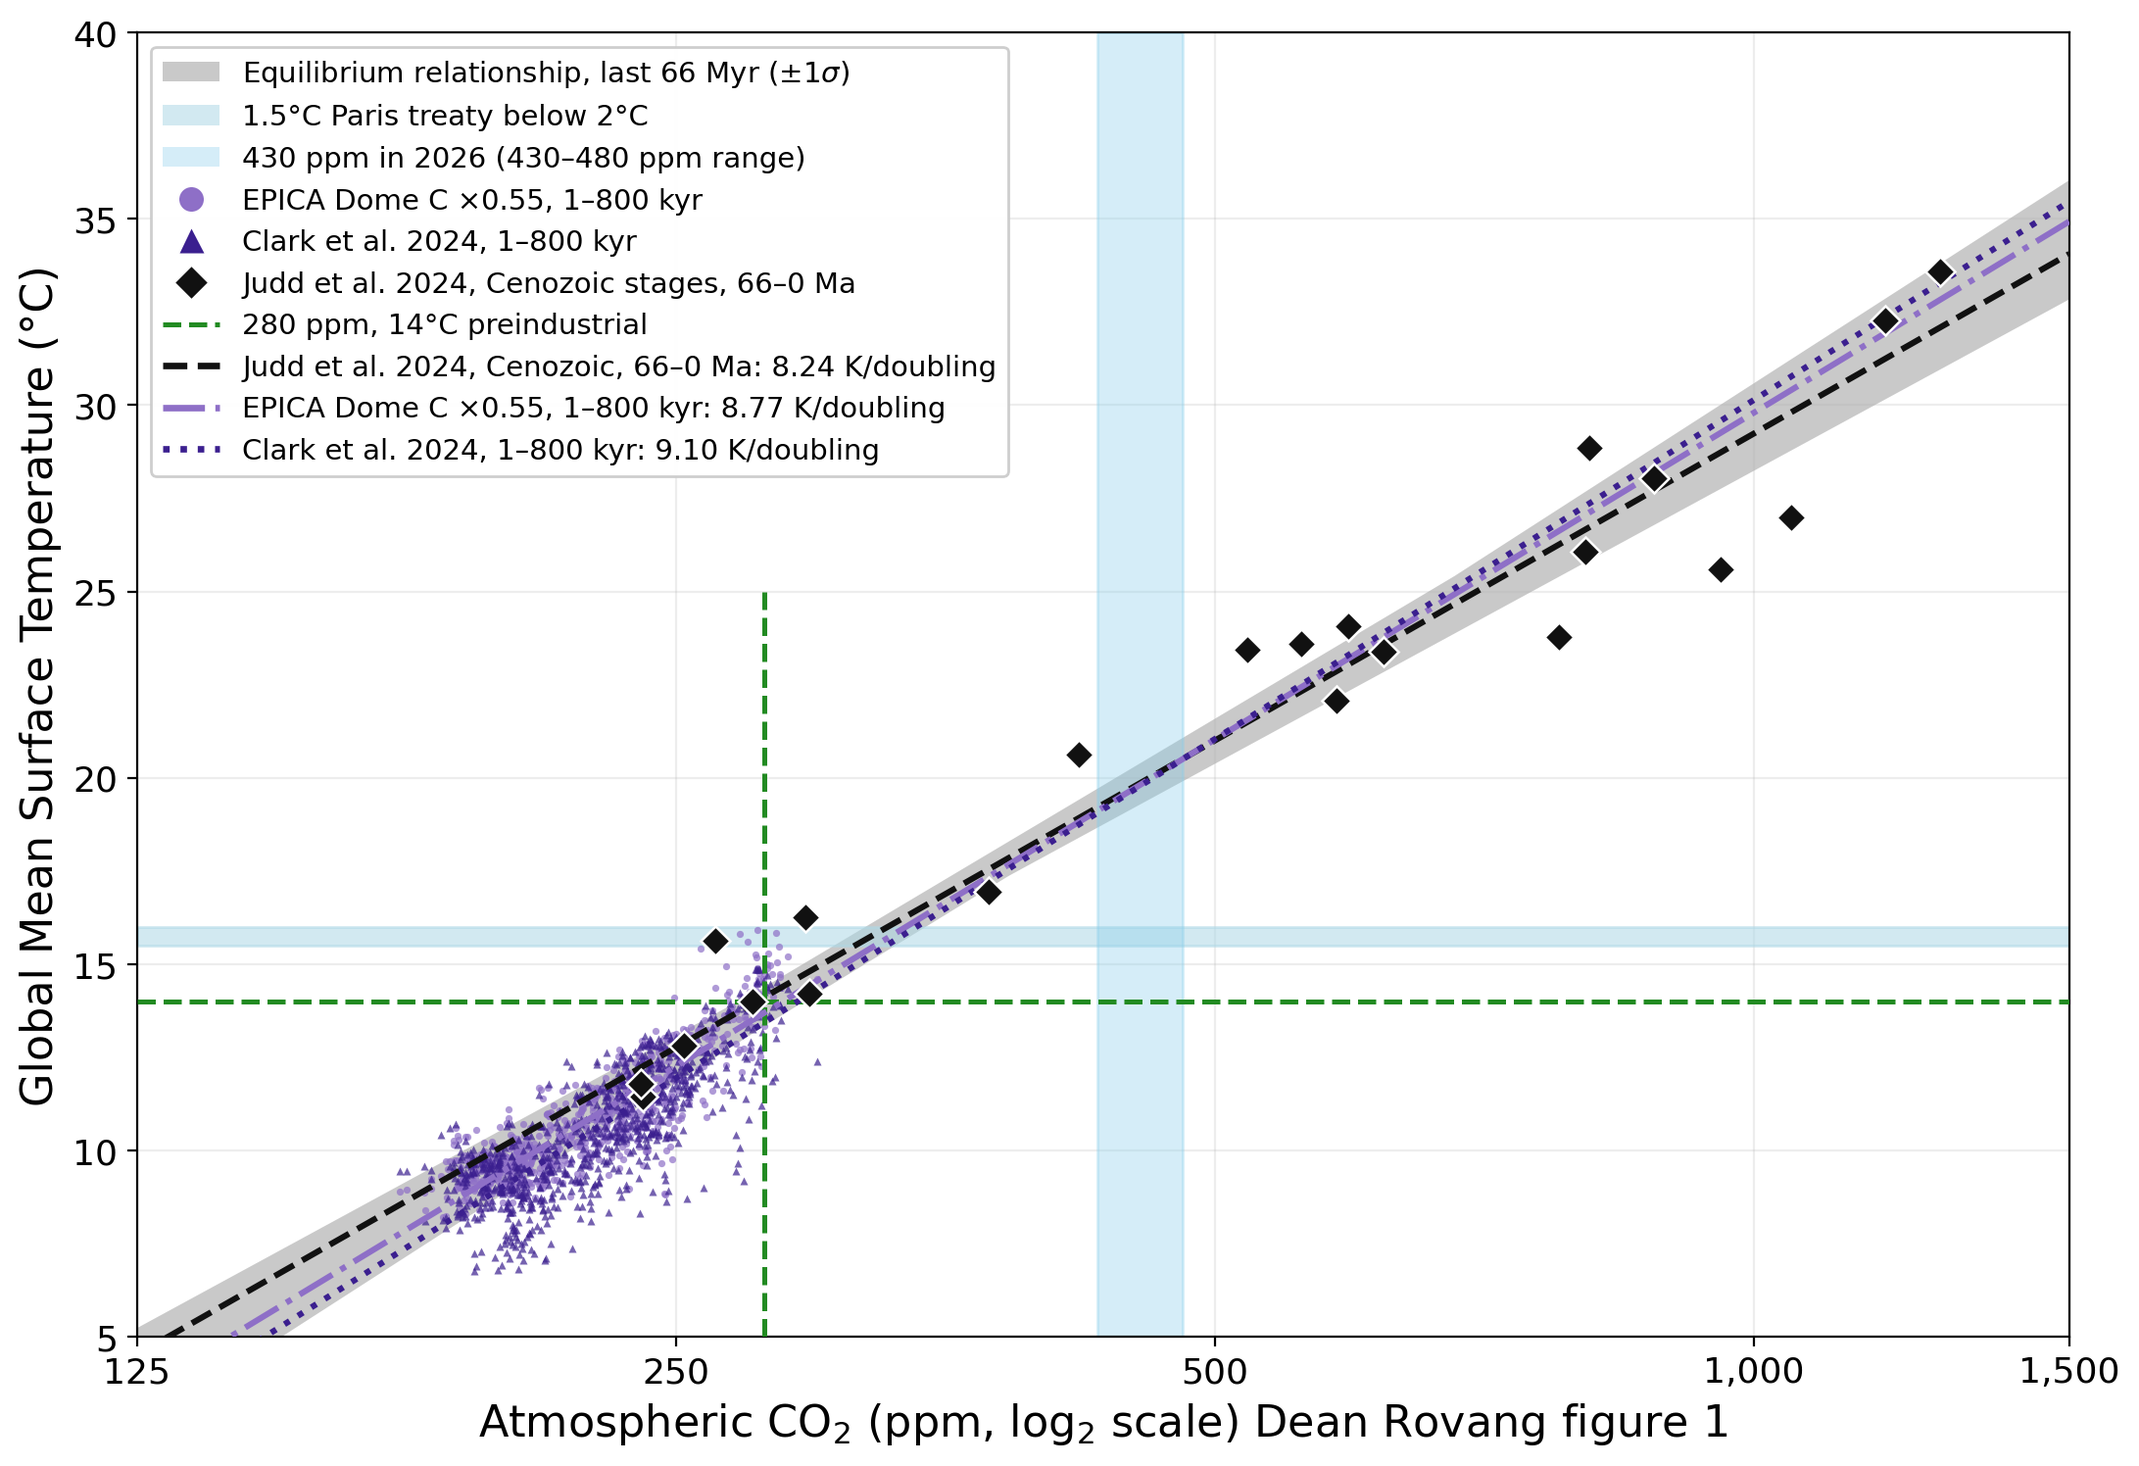
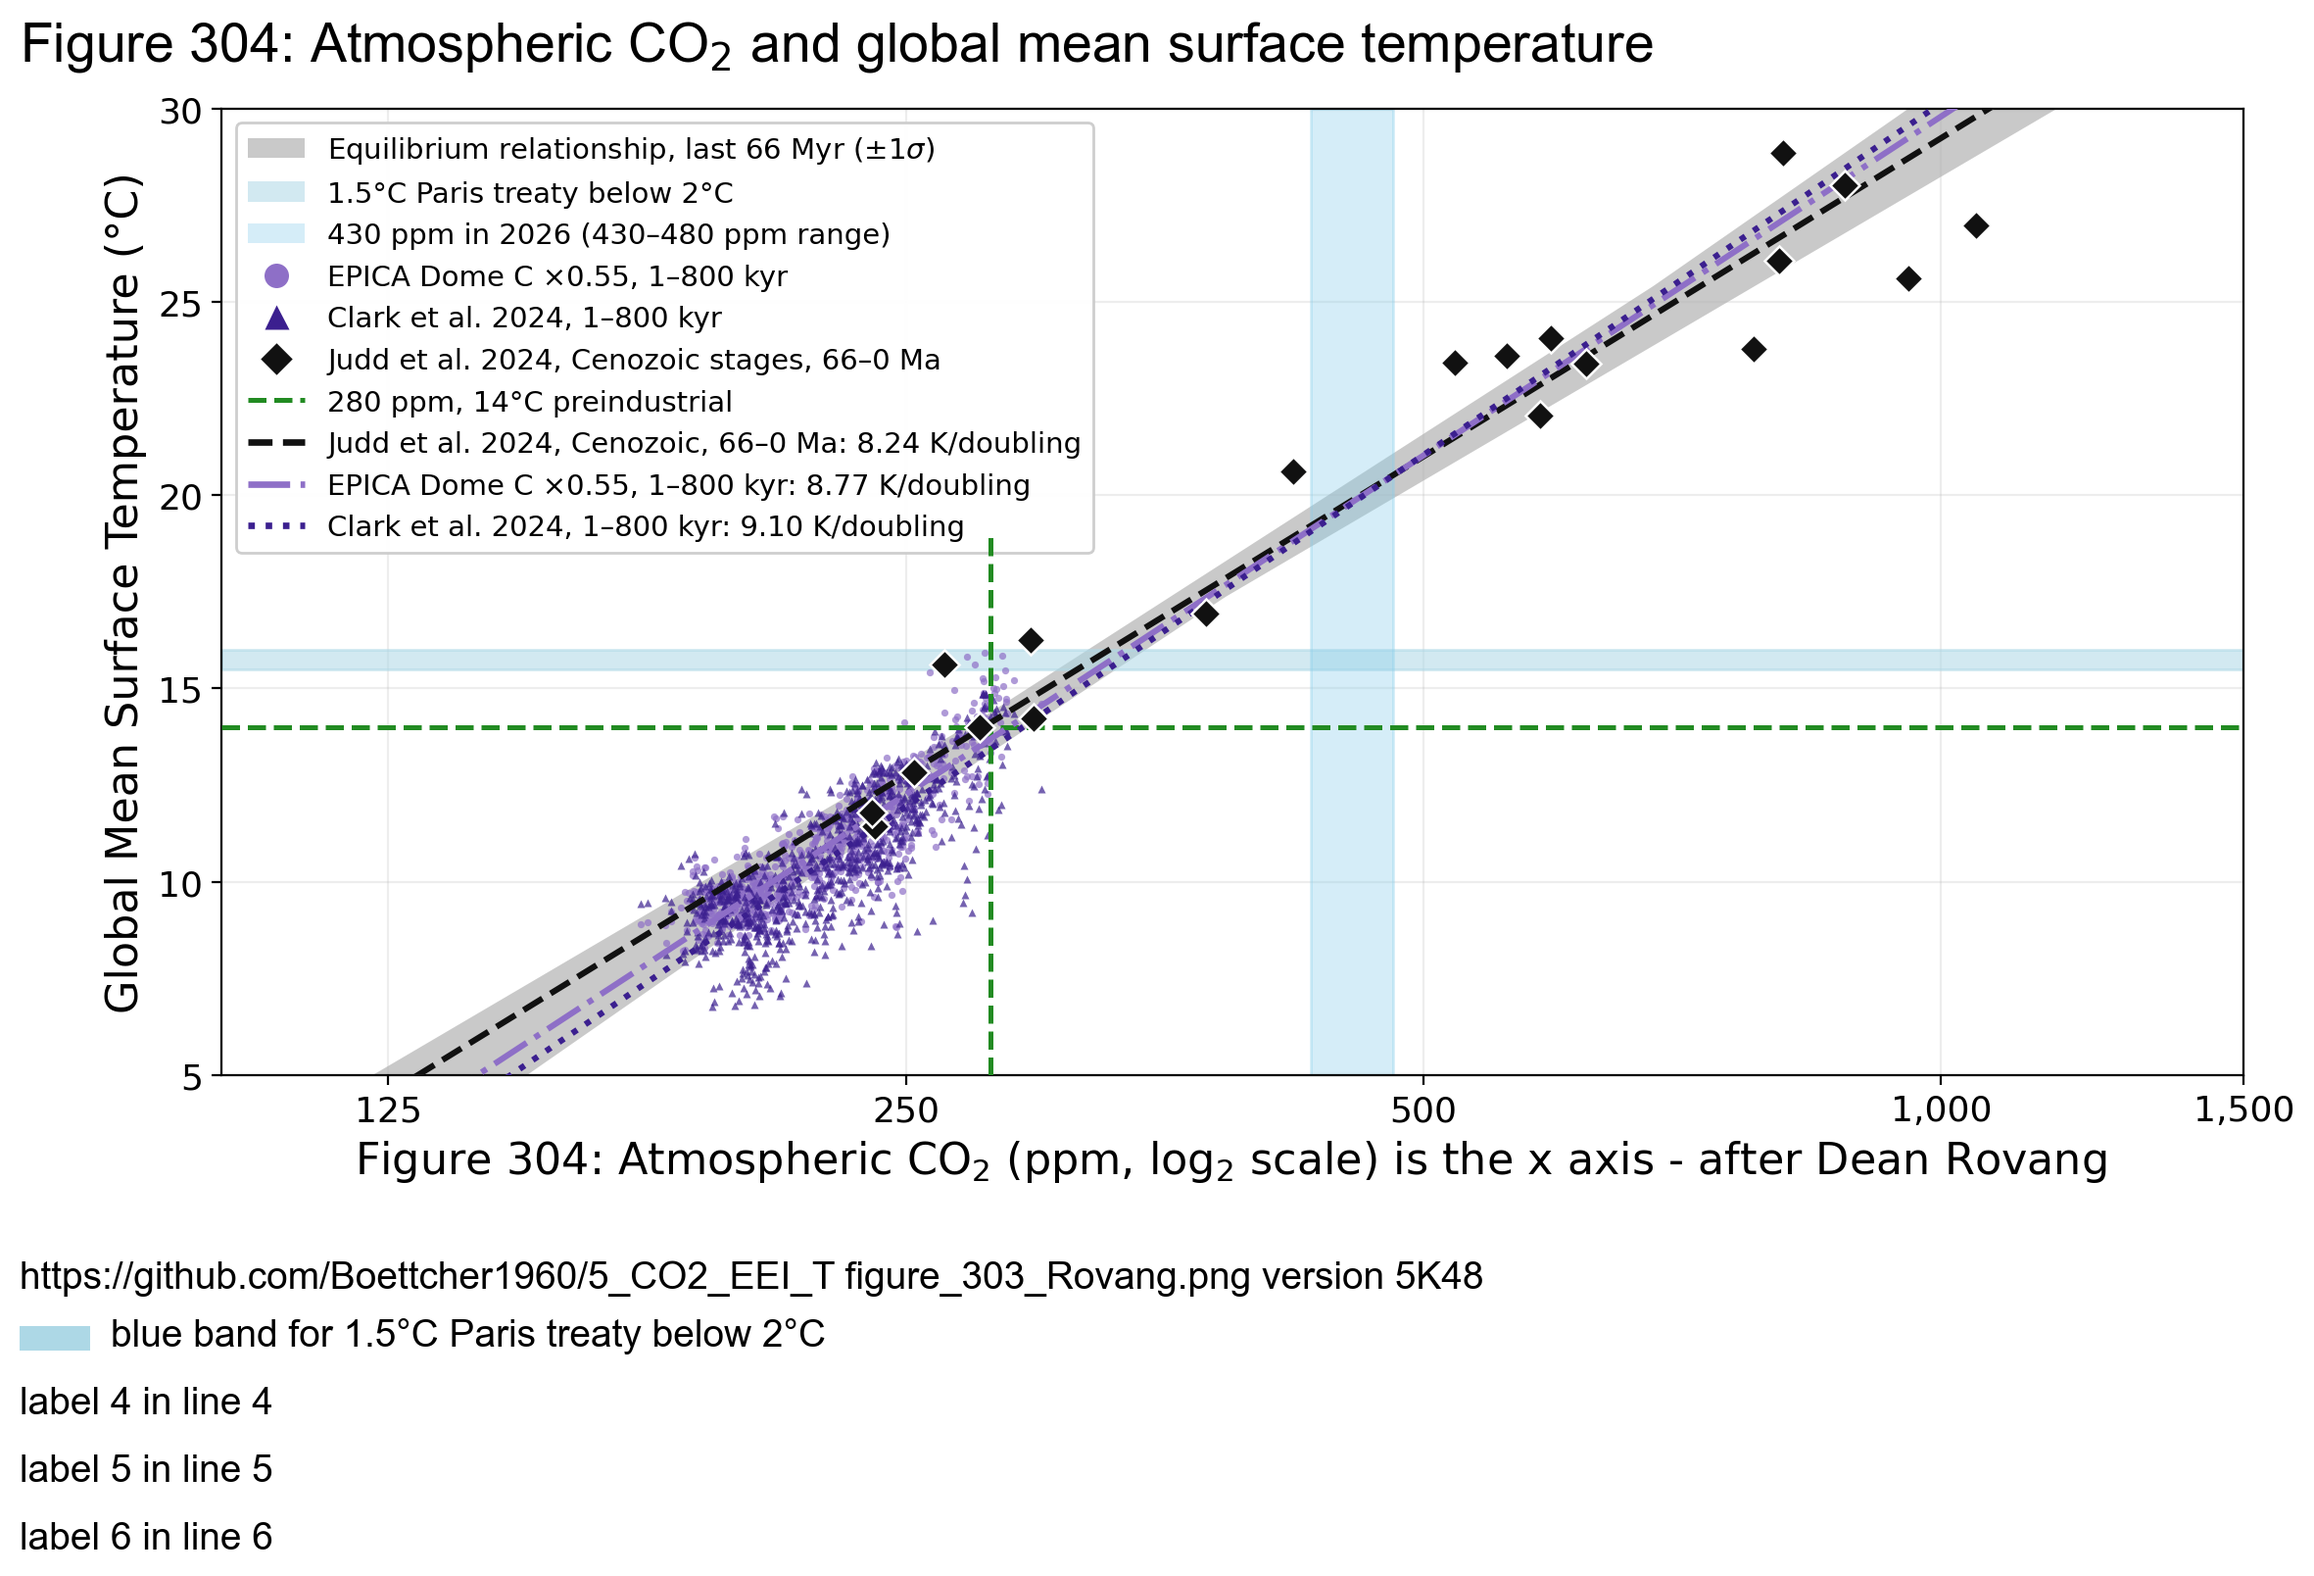
5K48

diff --git a/Rovang/Rovang_figure_303.py b/Rovang/Rovang_figure_303.py
@@ -23,7 +23,7 @@ import matplotlib
 # matplotlib.use("Agg")
 import matplotlib.pyplot as plt
 from matplotlib.lines import Line2D
-from matplotlib.patches import Patch
+from matplotlib.patches import Patch, Rectangle
 
 from config import *
 from main import v
@@ -175,9 +175,16 @@ def _create_figure(linear_x=False):
             transform=ax.transAxes)
 
     t3y3 = -0.28    # 303.124 print line 3 t3y3 = -0.28
-    label3="blue band for 1.5\u00b0C Paris treaty below 2°C"
+    label3="blue band for 1.5\u00b0C, the Paris treaty 14\u00b0C+2\u00b0C = 16\u00b0C"
+    ax.add_patch(
+        Rectangle(
+            (-0.1, t3y3 - 0.005), 0.035, 0.025,
+            transform=ax.transAxes, facecolor=paris_band_color,
+            edgecolor="none", clip_on=False,
+        )
+    )
     # 303.125 print line 3 below the plot
-    ax.text(-0.1, t3y3, label3, color="black", fontname="Arial", fontsize=14,
+    ax.text(-0.055, t3y3, label3, color="black", fontname="Arial", fontsize=14,
             transform=ax.transAxes)
 
 

diff --git a/main.py b/main.py
@@ -1,5 +1,5 @@
 # main.py
-v = "5K47" # make 4 text lines below the plot like in text_9_print_7_lines():
+v = "5K48" # make 4 text lines below the plot like in text_9_print_7_lines():
 # https://github.com/Boettcher1960/5_CO2_EEI_T
 # ocean stratification https://bsky.app/profile/thomas-boettcher.bsky.social/post/3mj7zx7fzsc26
 # https://drtomharris.substack.com/p/the-great-decoupling-how-ocean-stratification

diff --git a/models.py b/models.py
@@ -1004,6 +1004,9 @@ in Rovang_figure_303.py make a headline like in def text_2_print_head_line():
 in Rovang_figure_303.py make 4 text lines below the plot like in text_9_print_7_lines():
 in Rovang_figure_303.py move the bottom_lines more away from the plot 
 
+in Rovang_figure_303.py insert the blue band before the text "blue band for 1.5\u00b0C Paris treaty below 2°C"
+
+
 """
 
 
